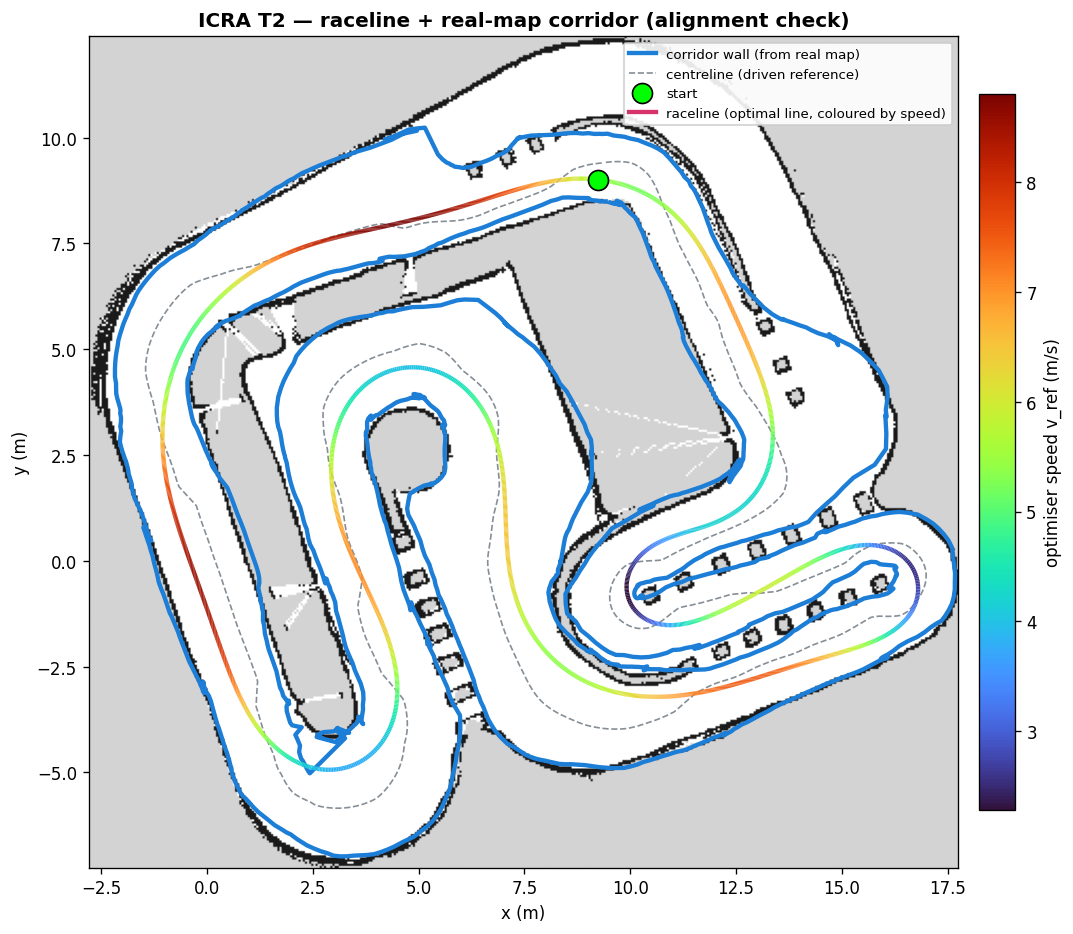
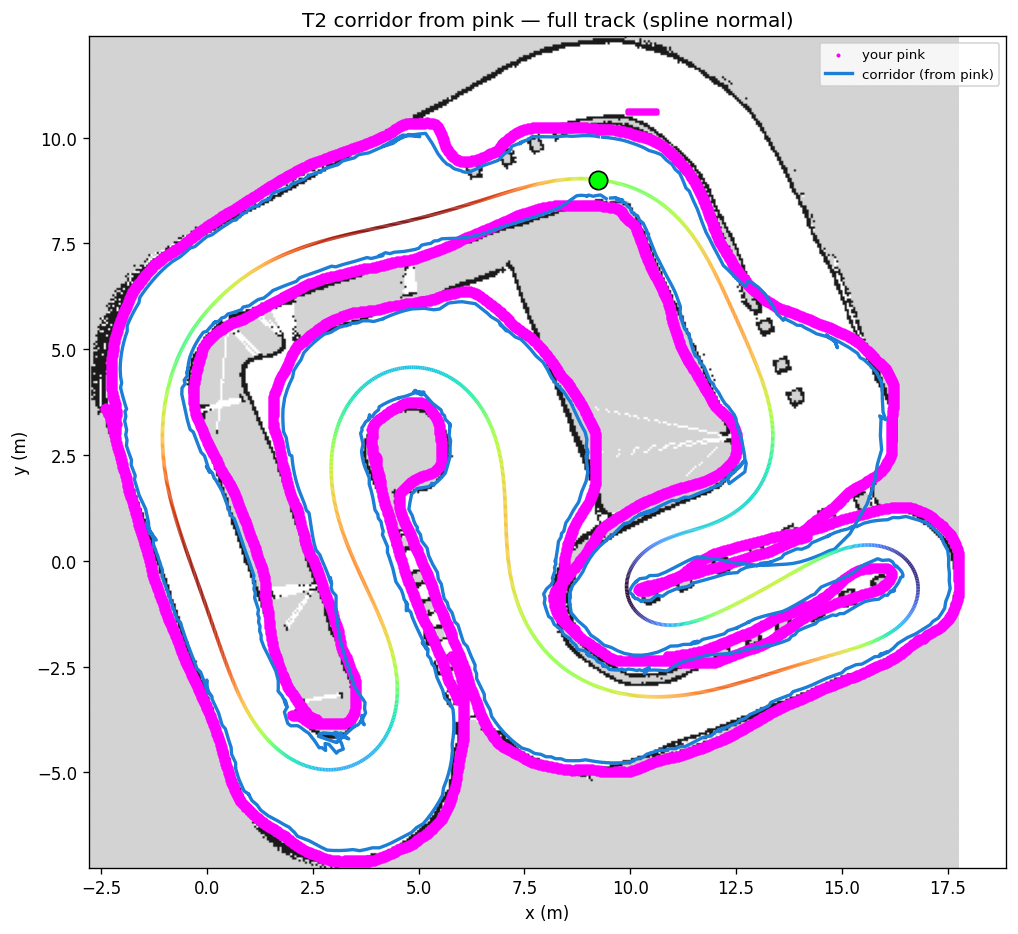
T2 corridor: hug the pink edges cleanly incl. the bottom-left hairpin
Rebuilt the corridor by raycasting from the centreline (spline normal, the same
one the MPCC uses) against the user's rasterised pink edges, instead of the
window/assignment matching that broke at the 180-degree hairpin. Remaining
downward notches (a few points where a ray caught a stray pink pixel at the
island tip) are repaired by interpolation across the notch. Corridor now hugs
the drawn edges the whole way round; half-width 0.45-1.95 m. Updated cache,
tool (tools/corridor_from_pink.py) and reference figure. Still a separate track;
T1 and old T2 untouched.

Claude-Session: https://claude.ai/code/session_01R9WJUKR7ub5e8S1C65Xx76

diff --git a/tools/corridor_from_pink.py b/tools/corridor_from_pink.py
@@ -1,34 +1,44 @@
 import sys, numpy as np
 from pathlib import Path
-from scipy.spatial import cKDTree
-ROOT=Path("/home/poxx/github/mpcc-online-tuning"); SC=Path(sys.argv[1])
+ROOT=Path("/home/poxx/github/mpcc-online-tuning"); sys.path.insert(0,str(ROOT)); SC=Path(sys.argv[1])
+import importlib.util
+spec=importlib.util.spec_from_file_location("cl", str(ROOT/"tools/centerline_from_map.py"))
+cl=importlib.util.module_from_spec(spec); spec.loader.exec_module(cl)
+from mpcc_tuning.track import Track
+im,res,org=cl.load(str(ROOT/"mpcc_tuning/tracks/icra2026_t2.pgm"),str(ROOT/"mpcc_tuning/tracks/icra2026_t2.yaml"))
+H,W=im.shape
 pk=np.load(SC/"pink_world.npz"); P=np.column_stack([pk["wx"],pk["wy"]])
+pink=np.zeros((H,W),bool)
+cc=((P[:,0]-org[0])/res).astype(int); rr=((org[1]+H*res-P[:,1])/res).astype(int)
+ok=(rr>=0)&(rr<H)&(cc>=0)&(cc<W); pink[rr[ok],cc[ok]]=True
+for _ in range(3): pink=pink|np.roll(pink,1,0)|np.roll(pink,-1,0)|np.roll(pink,1,1)|np.roll(pink,-1,1)
 d=np.load(ROOT/"mpcc_tuning/tracks/icra_t2_mapped_corridor.npz")
-cx,cy=d["cx"],d["cy"]; ctr=np.column_stack([cx,cy])
-wl0=d["wl"].copy(); wr0=d["wr"].copy()
-g=np.gradient(ctr,axis=0); g/=np.maximum(np.linalg.norm(g,axis=1,keepdims=True),1e-12)
-tang=g; nrm=np.column_stack([-g[:,1],g[:,0]])
-tree=cKDTree(P)
-WIN=0.18; RAD=3.0
-wl=wl0.copy(); wr=wr0.copy()
-for i in range(len(ctr)):
-    idx=tree.query_ball_point(ctr[i], RAD)
-    if not idx: continue
-    rel=P[idx]-ctr[i]; along=rel@tang[i]; perp=rel@nrm[i]
-    m=np.abs(along)<WIN
-    if not m.any(): continue
-    pp=perp[m]
-    plus=pp[pp>0.12]; minus=pp[pp<-0.12]
-    if len(plus):  wr[i]=float(plus.min())        # NEAREST pink on +n side
-    if len(minus): wl[i]=float((-minus).min())    # NEAREST pink on -n side
-# smoothing (median to remove single-sample jitter), floor, and clamp isolated spikes
-def sm(a,m=5,floor=0.30):
-    pad=np.concatenate([a[-(m//2):],a,a[:m//2]]); a=np.array([np.median(pad[i:i+m]) for i in range(len(a))]); return np.maximum(a,floor)
-# isolated-spike clamp vs rolling median (kills any residual cross-track grabs)
-def declip(a,win=21,fac=1.4):
-    pad=np.concatenate([a[-(win//2):],a,a[:win//2]]); med=np.array([np.median(pad[i:i+win]) for i in range(len(a))])
-    return np.where(a>fac*med, med, a)
-wl,wr=declip(sm(wl)),declip(sm(wr))
+cx,cy=d["cx"],d["cy"]; Nc=len(cx); wl0=d["wl"].copy(); wr0=d["wr"].copy()
+t=Track.icra_t2_raceline_mapped()   # SPLINE geometry (the MPCC's own normal, non-flipping)
+S=t.s
+pos=np.array([[float(t.pos(float(s))[0]),float(t.pos(float(s))[1])] for s in S])
+phi=np.array([float(t.tangent_angle(float(s))) for s in S])
+nrm=np.column_stack([-np.sin(phi),np.cos(phi)])
+def march(p,dvec,maxm=4.0):
+    for i in range(1,int(maxm/res)):
+        w=p+dvec*(i*res); c=int((w[0]-org[0])/res); r=int((org[1]+H*res-w[1])/res)
+        if not(0<=r<H and 0<=c<W): return maxm
+        if pink[r,c]: return i*res
+    return maxm
+wr=np.array([march(pos[i], nrm[i]) for i in range(Nc)])
+wl=np.array([march(pos[i],-nrm[i]) for i in range(Nc)])
+wr=np.where(wr>=3.99, wr0, wr); wl=np.where(wl>=3.99, wl0, wl)
+def med(a,m=5): pad=np.concatenate([a[-(m//2):],a,a[:m//2]]); return np.array([np.median(pad[i:i+m]) for i in range(len(a))])
+from scipy.ndimage import maximum_filter1d
+def repair(w):
+    w=med(w,5).astype(float)
+    mx=maximum_filter1d(w, size=25, mode="wrap")      # local envelope
+    bad=w < 0.6*mx                                     # downward notch
+    if bad.any():
+        good=~bad; xi=np.arange(len(w))
+        w[bad]=np.interp(xi[bad], xi[good], w[good], period=len(w))
+    return med(w,5)
+wr=np.maximum(repair(wr),0.30); wl=np.maximum(repair(wl),0.30)
 np.savez(str(ROOT/"mpcc_tuning/tracks/icra_t2_mapped_corridor.npz"),
          cx=cx,cy=cy, wl=wl, wr=wr, ds=float(d["ds"]), length=float(d["length"]),
          raceline=d["raceline"], vref=d["vref"])
